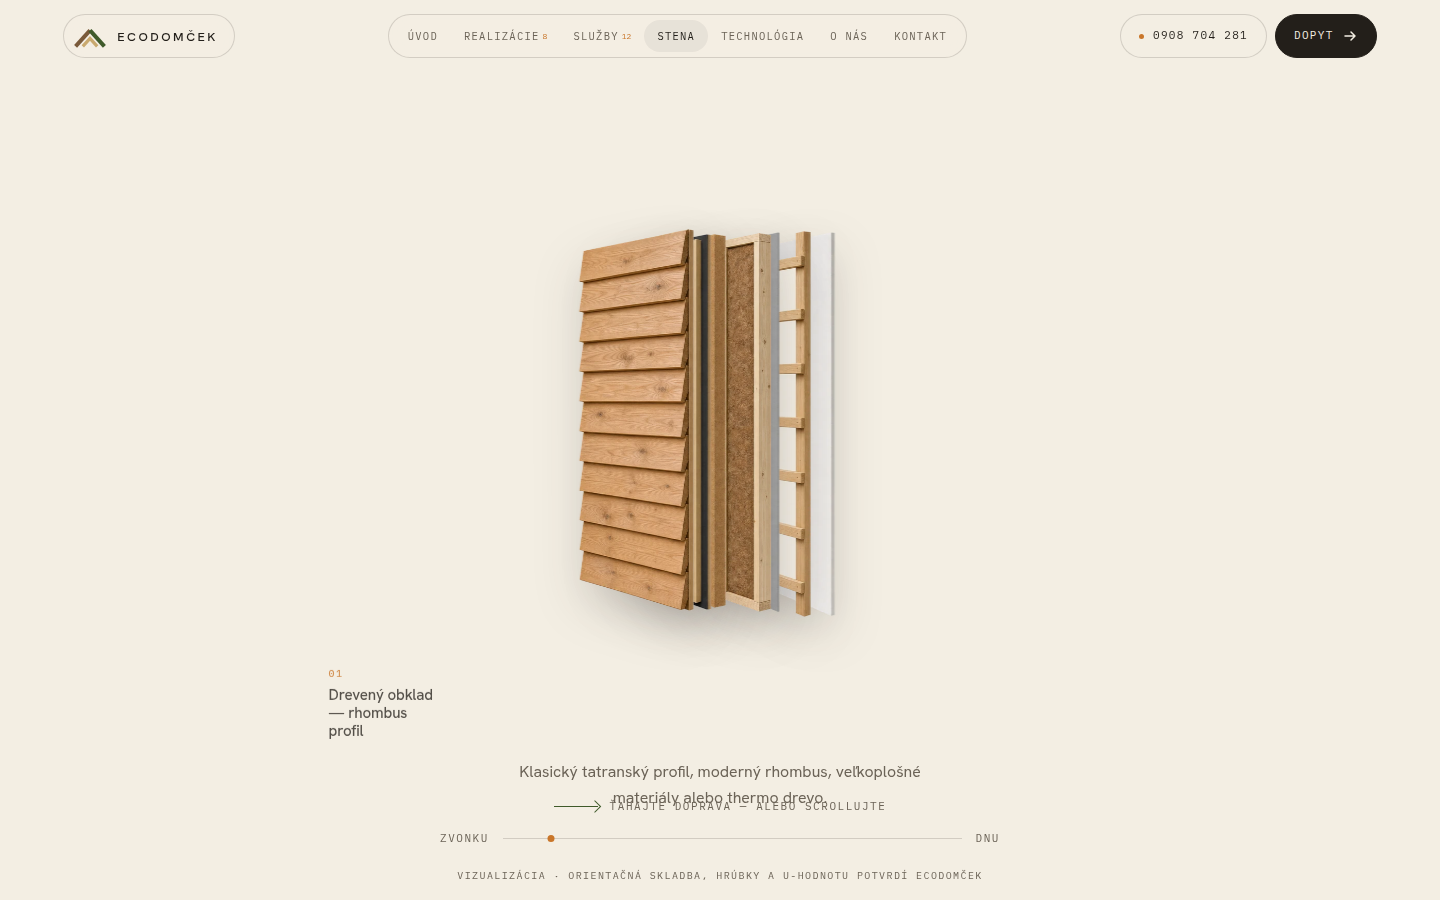
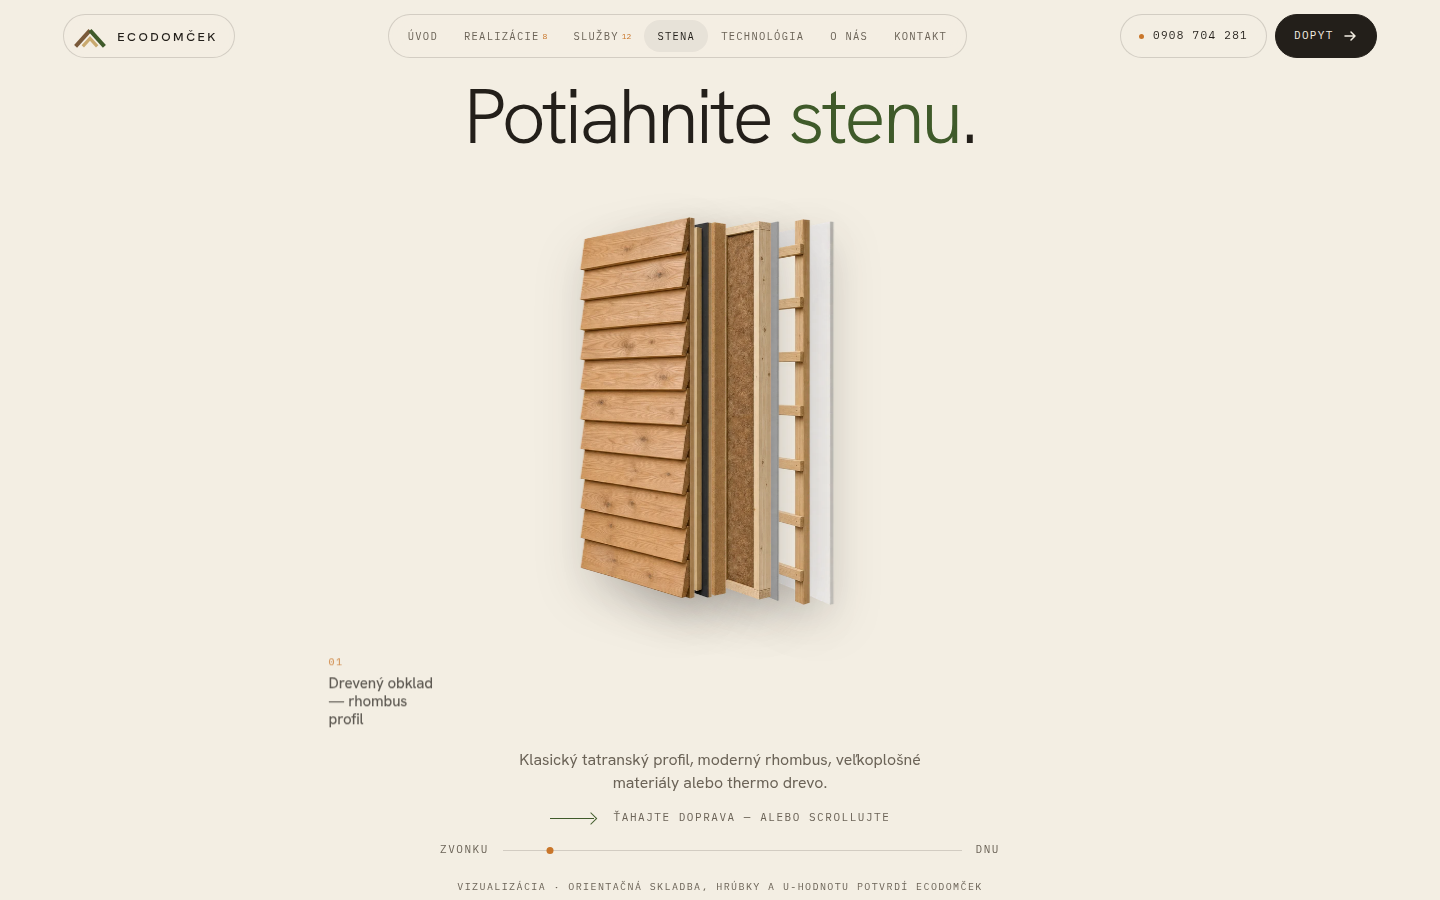
EcoDomcek: pat chyb z kritickeho auditu
- Stena: nadpis sa nikdy neodkryl (chybal data-reveal)
- Stena: popis vrstvy prekryval napovedu (6 riadkov gridu pre 7
  prvkov, rezerva na jeden riadok); sipka uz nenaraza do pismena
- Uvod, mobil: dom zakryval „Vitajte vo svete," — mrtve mobilne
  pravidla stareho hera (sticky dom s papierovym pozadim) zmazane
- Kontakt, mobil: telefon sa lamal na dva riadky
- Garaz: verejny zastupny text „[dopln EcoDomcek]" prec

LOCAL: kazda oprava overena meranim na 1440 aj 390, potom plna
regresia: 15 stranok x 3 sirky, router, stena, bundle z file://
(62 obrazkov), formular. Safari a realny mobil NOT VALIDATED.

Claude-Session: https://claude.ai/code/session_0185BVM6PQ8B7oEkPHRwx1P3

diff --git a/clients/ecodomcek/web/src/site.css b/clients/ecodomcek/web/src/site.css
@@ -258,7 +258,7 @@ figure{margin:0;position:relative}
 /* ═══ contact ═══════════════════════════════════════════════════════ */
 .contact{display:grid;grid-template-columns:minmax(0,1fr) minmax(0,1fr);gap:clamp(30px,5vw,88px);
   align-items:start}
-.tel-big{font-size:clamp(38px,5.2vw,86px);font-weight:300;letter-spacing:-.025em;color:var(--glow);
+.tel-big{white-space:nowrap;font-size:clamp(34px,5.2vw,86px);font-weight:300;letter-spacing:-.025em;color:var(--glow);
   line-height:1;display:inline-block}
 .form{display:grid;grid-template-columns:1fr 1fr;gap:22px;margin-top:8px}
 .form label{display:flex;flex-direction:column;gap:8px;font-family:var(--mono);font-size:10px;
@@ -328,17 +328,6 @@ footer .big{font-family:var(--serif);font-size:clamp(21px,1.85vw,29px);line-heig
   .band.moss .sticky{background:linear-gradient(180deg,var(--moss-deep) 0%,var(--moss-deep) 86%,rgba(36,51,26,0) 100%)}
   .steps{position:relative;z-index:2}
   .step{min-height:auto;padding:22px 0 56px}
-  #hero .track{height:auto}
-  #hero .stage{position:static;height:auto;overflow:visible}
-  #hero .house{position:sticky;top:96px;transform:none;right:auto;width:100%;margin:0;z-index:5;
-    background:linear-gradient(180deg,var(--paper) 0%,var(--paper) 96%,rgba(243,238,227,0) 100%)}
-  #hero .house::before{content:"";position:absolute;left:-6%;right:-6%;top:-96px;height:96px;background:var(--paper)}
-  #hero .copy{position:static;padding:8px var(--gut) 0;pointer-events:auto}
-  #hero .step{position:static;width:auto;opacity:1;visibility:visible;min-height:72svh;padding:18px 0 40px;
-    display:flex;flex-direction:column;justify-content:center}
-  #hero .step.intro{min-height:auto;padding-top:0}
-  #hero h1,#hero h2{font-size:clamp(34px,9vw,44px)}
-  #hero .rail,#hero .stamp{display:none}
   #idx{display:none}
   .rooms{grid-template-columns:1fr;gap:34px}
   .rooms figure:nth-child(2){margin-top:0}
@@ -711,7 +700,7 @@ h2.big em{font-style:normal;color:var(--moss)}
 /* ═══ STENA — seven slabs you pull apart ═══════════════════════════════ */
 .wallpage{padding:0}
 .walltrack{height:280svh}
-.wallstage{position:sticky;top:0;height:100svh;display:grid;grid-template-rows:auto 1fr auto auto auto auto;
+.wallstage{position:sticky;top:0;height:100svh;display:grid;grid-template-rows:auto 1fr auto auto auto auto auto;
   align-content:center;justify-items:center;padding:clamp(84px,11vh,120px) var(--gut) 24px;gap:clamp(8px,1.6vh,18px)}
 .wl{font-size:clamp(36px,5.4vw,84px);letter-spacing:-.036em;line-height:.95;margin:0;text-align:center}
 .wl em{font-style:normal;color:var(--moss)}
@@ -723,14 +712,14 @@ h2.big em{font-style:normal;color:var(--moss)}
   filter:drop-shadow(0 18px 24px rgba(35,31,26,.14))}
 .tags{position:relative;width:min(100%,calc((100svh - 430px) * 1.768));height:clamp(64px,9vh,84px)}
 .tag p{display:none}
-.tagdesc{margin:0;max-width:52ch;text-align:center;font-size:clamp(14px,1.1vw,17px);color:var(--ink2);min-height:1.5em}
+.tagdesc{margin:0;max-width:52ch;text-align:center;font-size:clamp(14px,1.1vw,17px);color:var(--ink2);min-height:3em;line-height:1.5}
 .tag{position:absolute;top:0;opacity:0;transform:translateY(8px);
   transition:opacity .45s var(--ease),transform .45s var(--ease);pointer-events:none}
 .tag.on{opacity:1;transform:none}
 .tag b{display:block;font-family:var(--mono);font-size:10px;font-weight:500;letter-spacing:.14em;color:var(--amber)}
 .tag span{display:block;margin-top:4px;font-size:clamp(13px,1.05vw,16px);font-weight:500;letter-spacing:-.01em;line-height:1.2}
 .tag p{margin-top:6px;font-size:clamp(11.5px,.85vw,13px);line-height:1.4;color:var(--ink2)}
-.handle{display:flex;align-items:center;gap:12px;color:var(--ink2);transition:opacity .4s}
+.handle{display:flex;align-items:center;gap:20px;color:var(--ink2);transition:opacity .4s}
 .handle i{width:44px;height:1px;background:var(--moss);position:relative}
 .handle i::after{content:"";position:absolute;right:-1px;top:-4px;width:8px;height:8px;
   border-top:1px solid var(--moss);border-right:1px solid var(--moss);transform:rotate(45deg);

diff --git a/clients/ecodomcek/web/src/pages.py b/clients/ecodomcek/web/src/pages.py
@@ -367,7 +367,7 @@ def build(B):
   <div class="wrap">
     <div class="sheettop">
       <a class="crumb mono" href="realizacie.html">← Realizácie</a>
-      <span class="mono">{esc(p["place"])} <i>·</i> {esc(p["month"])} {p["year"]}</span>
+      <span class="mono">{esc(p["place"]) + " <i>·</i> " if p["place"] else ""}{esc(p["month"])} {p["year"]}</span>
     </div>
     <div class="sheetgrid" data-reveal data-plate style="--pw:{w}px">
       <div class="scol">
@@ -385,7 +385,7 @@ def build(B):
 </section>'''
 
         # the hairline sheet: only facts we can stand behind
-        tbl = [("Rok", f'{p["month"]} {p["year"]}'), ("Miesto", p["place"]),
+        tbl = [("Rok", f'{p["month"]} {p["year"]}')] + ([("Miesto", p["place"])] if p["place"] else []) + [
                ("Kategórie", " · ".join(p["tags"])), ("Realizoval", "EcoDomček, s.r.o."),
                ("Fotografia", "Archív EcoDomček" if photo_src(p) else "Zatiaľ nemáme")]
         rws = "".join(f'<div class="strow"><span class="mono">{esc(k)}</span>'
@@ -701,7 +701,7 @@ def build(B):
                  f'<b>{i + 1:02d}</b><span>{esc(n)}</span><p>{esc(t)}</p></div>')
     wall = f'''<section class="band wallpage" id="wall" data-sec="Stena">
   <div class="walltrack" data-wall>
-    <div class="wallstage">
+    <div class="wallstage" data-reveal>
       <h1 class="wl"><span class="rl"><span>Potiahnite <em>stenu</em>.</span></span></h1>
       <div class="slabs" style="aspect-ratio:{WL["W"]}/{WL["H"]}">{slabs}</div>
       <div class="tags">{tags}</div>

diff --git a/clients/ecodomcek/web/src/content.py b/clients/ecodomcek/web/src/content.py
@@ -141,7 +141,7 @@ PROJECTS = [
          specs=[("Strecha", "Sklo"), ("Konštrukcia", "Prestrešenie terasy"),
                 ("Pokračovanie", "Garáž a altánok s grilom")]),
     dict(services=[3], slug="2019-garaz", year="2019", month="apríl", title="Garážo-sklado-terasa",
-         place="[doplní EcoDomček]", tags=["Garáž", "Terasa"], thumb=None, photo=None,
+         place="", tags=["Garáž", "Terasa"], thumb=None, photo=None,
          text="Milá kombinácia stojiska pre autá, skladu a terasy s grilom. Taká zábavka na pätkách, "
               "podlaha terasy je z termo jaseňa a keramickej dlažby.",
          shot="Fotografiu tejto realizácie zatiaľ nemáme — doplní EcoDomček.",

diff --git a/clients/ecodomcek/ART_DIRECTION.md b/clients/ecodomcek/ART_DIRECTION.md
@@ -634,3 +634,30 @@ nie `founder` — zakladateľstvo nie je doslova doložené). WebP q76
 (−23 %), `width/height` na každom obrázku. Formulár otvára e-mail
 návštevníka s hotovým dopytom — poctivé bez servera. Bundle nevkladá
 base64 do absolútnych URL v `og:image`: 2,5 MB.
+
+---
+
+## Fáza 11 — opravy z kritického auditu (2026-09-24)
+
+Audit 9 typov stránok (1440×900, 390×844, prvé obrazovky aj celé
+stránky, emulované pomalé 4G) našiel päť chýb priamo v záberoch:
+
+1. **Stena: nadpis „Potiahnite stenu." sa nikdy neukázal** — maska čaká na
+   `.on`, stena nemala `data-reveal`. Doplnené.
+2. **Stena: popis vrstvy prekrýval nápovedu** — 7 prvkov v 6-riadkovom
+   gride a popis s rezervou na jeden riadok, hoci sa zalamuje. Riadok
+   doplnený, rezerva 3em; šípka nápovedy už nenaráža do písmena.
+3. **Úvod, mobil: dom zakrýval „Vitajte vo svete,"** — mŕtve mobilné
+   pravidlá starého hera (`#hero .house` sticky s papierovým pozadím a
+   96px papierovým blokom nad sebou) sa vzťahovali na dom postera.
+   Celý blok (9 pravidiel pre štruktúru, ktorá už neexistuje) zmazaný.
+4. **Kontakt, mobil: telefón sa lámal na dva riadky** — `nowrap`.
+5. **Garáž: verejné „[doplní EcoDomček]"** — neznáme miesto sa
+   nezobrazuje nikde; ostáva v zozname pre klienta v README.
+
+Každá oprava overená meraním (nadpis v maske a v obraze, prekrytie
+podľa súradníc, prvok navrchu cez `elementFromPoint`, počet riadkov
+telefónu) na oboch šírkach, potom plná regresia. Zo auditu ostáva
+otvorené: Realizácie (render ako hlavný obraz, rovnaké karty), O nás
+(prázdna pravá polovica, zdvojené motto), LCP úvodu 5,0 s na
+mobile, text pod 12 px, dva `h1` na úvode.
